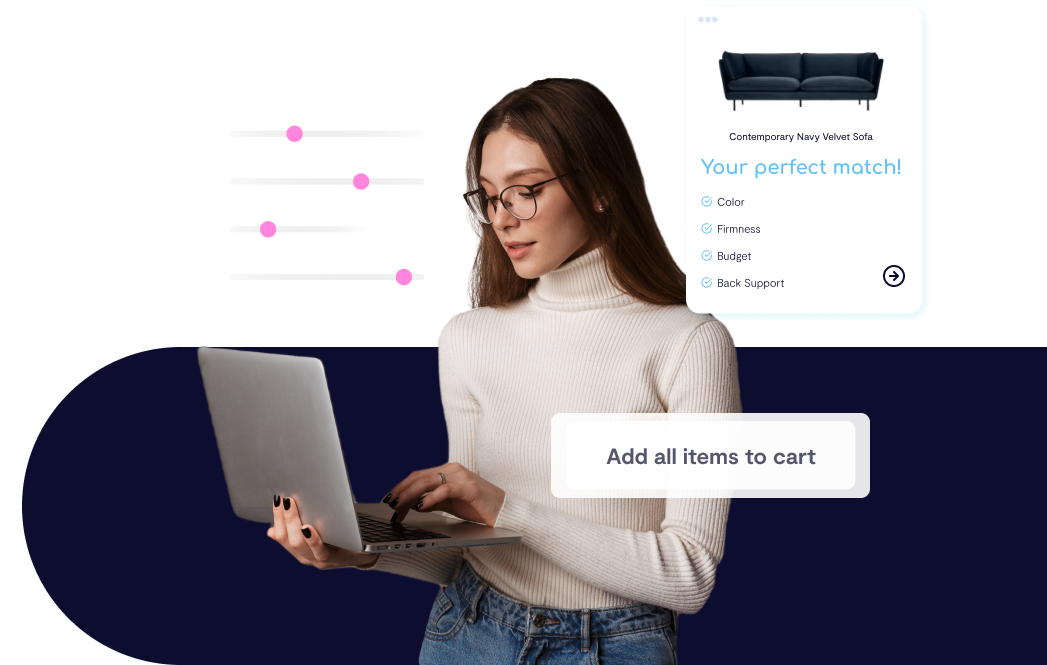
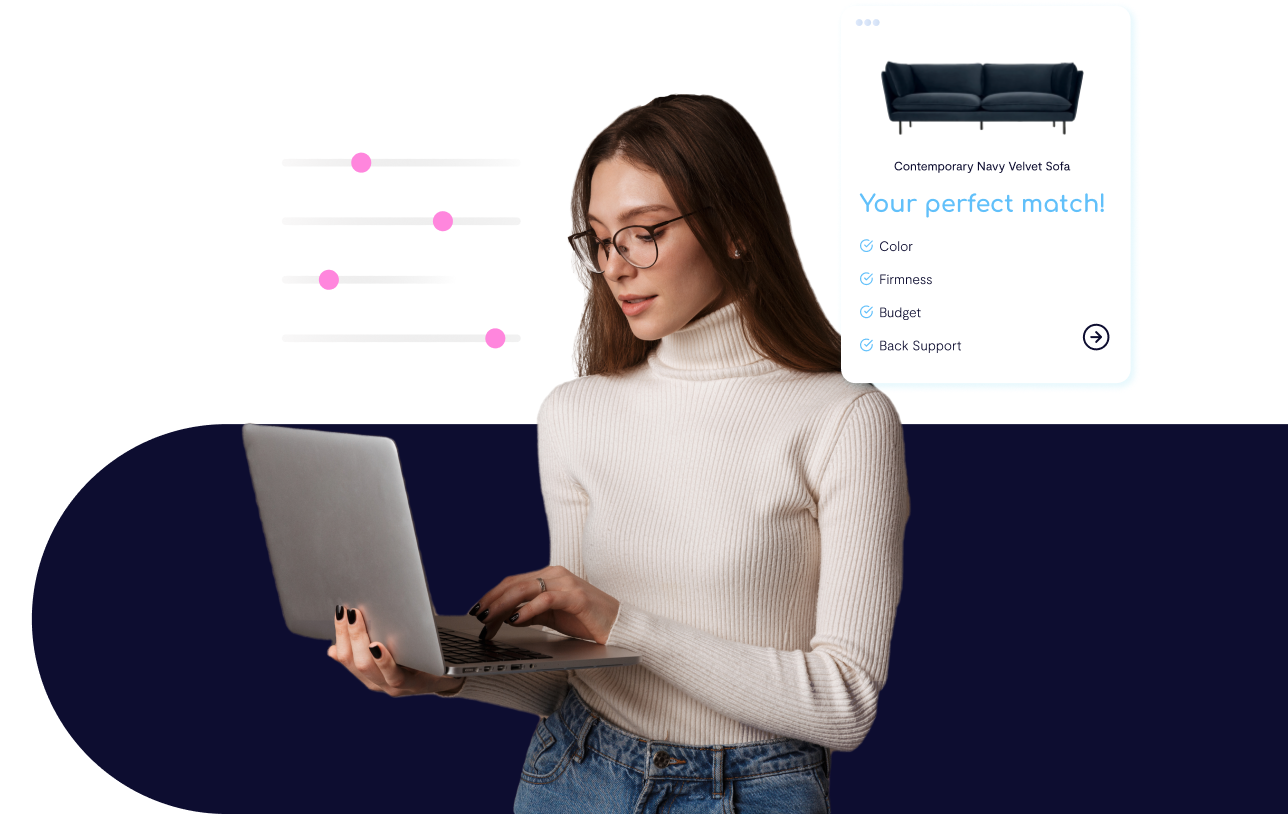
finished corrections for Roi-calc page

diff --git a/frontend/css/style_stas.css b/frontend/css/style_stas.css
@@ -417,6 +417,18 @@
     color: #0D0D30;
 }
 
+@media screen and (max-width: 900px) {
+    .first-screen__bg--large-screen {
+        display: none;
+    }
+    .first-screen__bg--mobile-screen {
+        display: block;
+        width: 100%;
+        max-width: 100%;
+        height: auto;
+    }
+}
+
 @media screen and (max-width: 991px) {
     .first-screen__info {
         margin-bottom: 60px;
@@ -468,15 +480,6 @@
         align-items: center;
         font-size: 15px;
         height: 60px;
-    }
-    .first-screen__bg--mobile-screen {
-        display: block;
-        width: 100%;
-        max-width: 100%;
-        height: auto;
-    }
-    .first-screen__bg--large-screen {
-        display: none;
     }
     .first-screen__title {
         font-size: 32px;

diff --git a/frontend/roi-calc.html b/frontend/roi-calc.html
@@ -61,7 +61,7 @@
                 </div>
 
                 <div class="first-screen__backgound first-screen-bg">
-                    <img src="./images/roi-calc/first-screen-bg-large.png" class="first-screen__bg first-screen__bg--large-screen">
+                    <img src="./images/roi-calc/first-screen-bg-large-3.png" class="first-screen__bg first-screen__bg--large-screen">
                     <img src="./images/roi-calc/first-screen-bg-mobile.png" class="first-screen__bg first-screen__bg--mobile-screen">
                 </div>
             </div>
